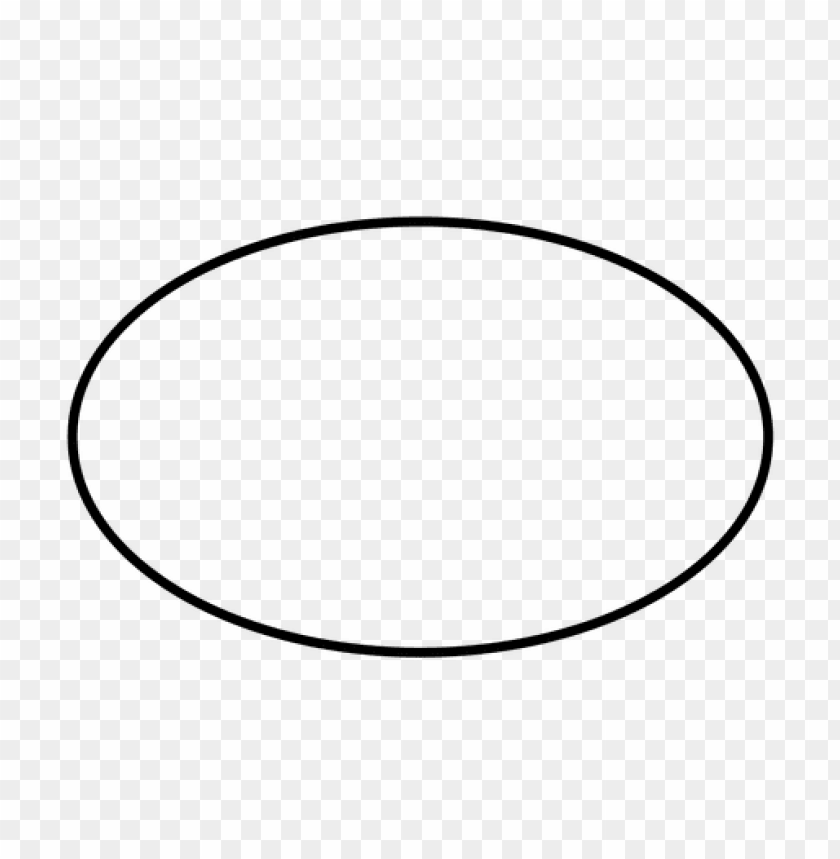
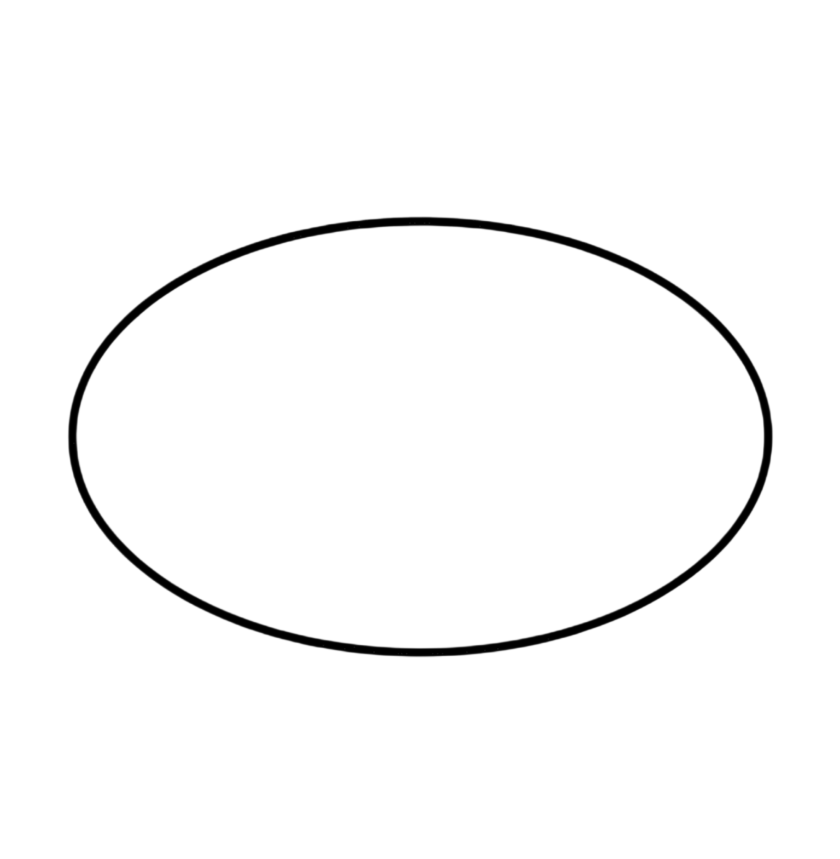
feat: do to toolbar bigger, rec and ell images became  better

diff --git a/Lab03/src/styles/style.css b/Lab03/src/styles/style.css
@@ -81,11 +81,11 @@ html {
   border: 1px solid #4c4747;
   border-radius: 6px;
   box-shadow: 0px 4px 12px rgba(0, 0, 0, 0.15);
-  padding: 16px 12px 10px 12px;
+  padding: 18px 16px 12px 16px;
   z-index: 40;
   box-sizing: border-box;
   align-items: center;
-  gap: 12px;
+  gap: 14px;
 }
 
 .objects-toolbar.is-open {
@@ -96,19 +96,19 @@ html {
   display: flex;
   flex-direction: row;
   align-items: center;
-  gap: 8px;
+  gap: 10px;
 }
 
 .toolbar__btn {
   display: flex;
   align-items: center;
   justify-content: center;
-  width: 36px;
-  height: 36px;
-  padding: 4px;
-  border: 1px solid #c0c0c0;
+  width: 44px;
+  height: 44px;
+  padding: 6px;
+  border: 1px solid #948484;
   border-radius: 4px;
-  background-color: #ffffff;
+  background-color: #fbf5f5;
   cursor: pointer;
   box-sizing: border-box;
 }
@@ -125,10 +125,10 @@ html {
 
 .toolbar-close {
   position: absolute;
-  top: -10px;
-  right: -10px;
-  width: 24px;
-  height: 24px;
+  top: -8px;
+  right: -6px;
+  width: 28px;
+  height: 28px;
   padding: 0;
   background: #ffffff;
   border: 1px solid #4c4747;
@@ -148,8 +148,10 @@ html {
 }
 
 .toolbar__icon {
-  width: 20px;
-  height: 20px;
+  width: 26px;
+  height: 26px;
+  max-width: 26px;
+  max-height: 26px;
   object-fit: contain;
   pointer-events: none;
 }

diff --git a/Lab03/index.html b/Lab03/index.html
@@ -50,7 +50,7 @@
                   aria-checked="false"
                 >
                   <img
-                    src="./images/toolbar_rectangle.jpg"
+                    src="./images/toolbar_rectangle.png"
                     alt="Прямокутник"
                     class="toolbar__icon"
                   />
